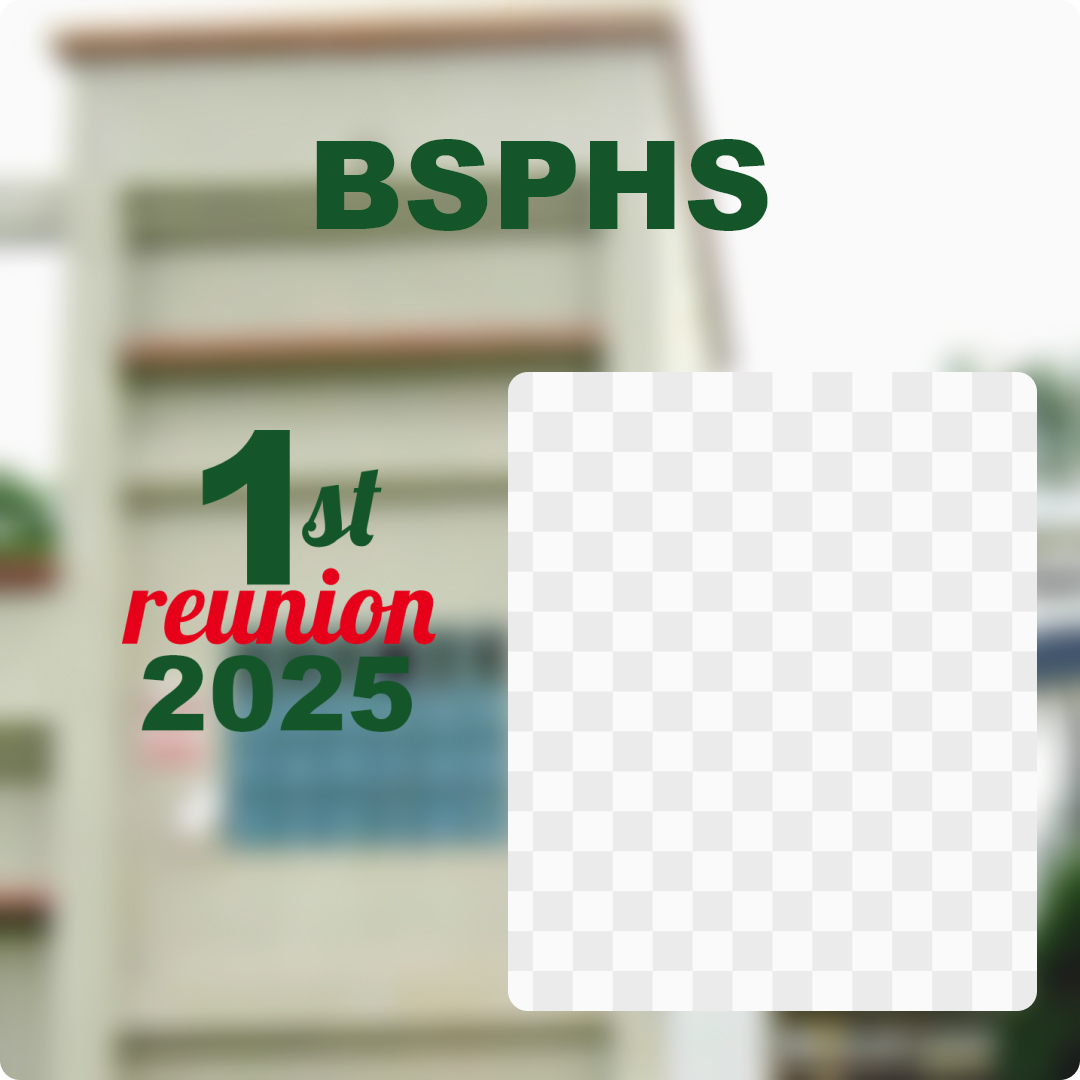
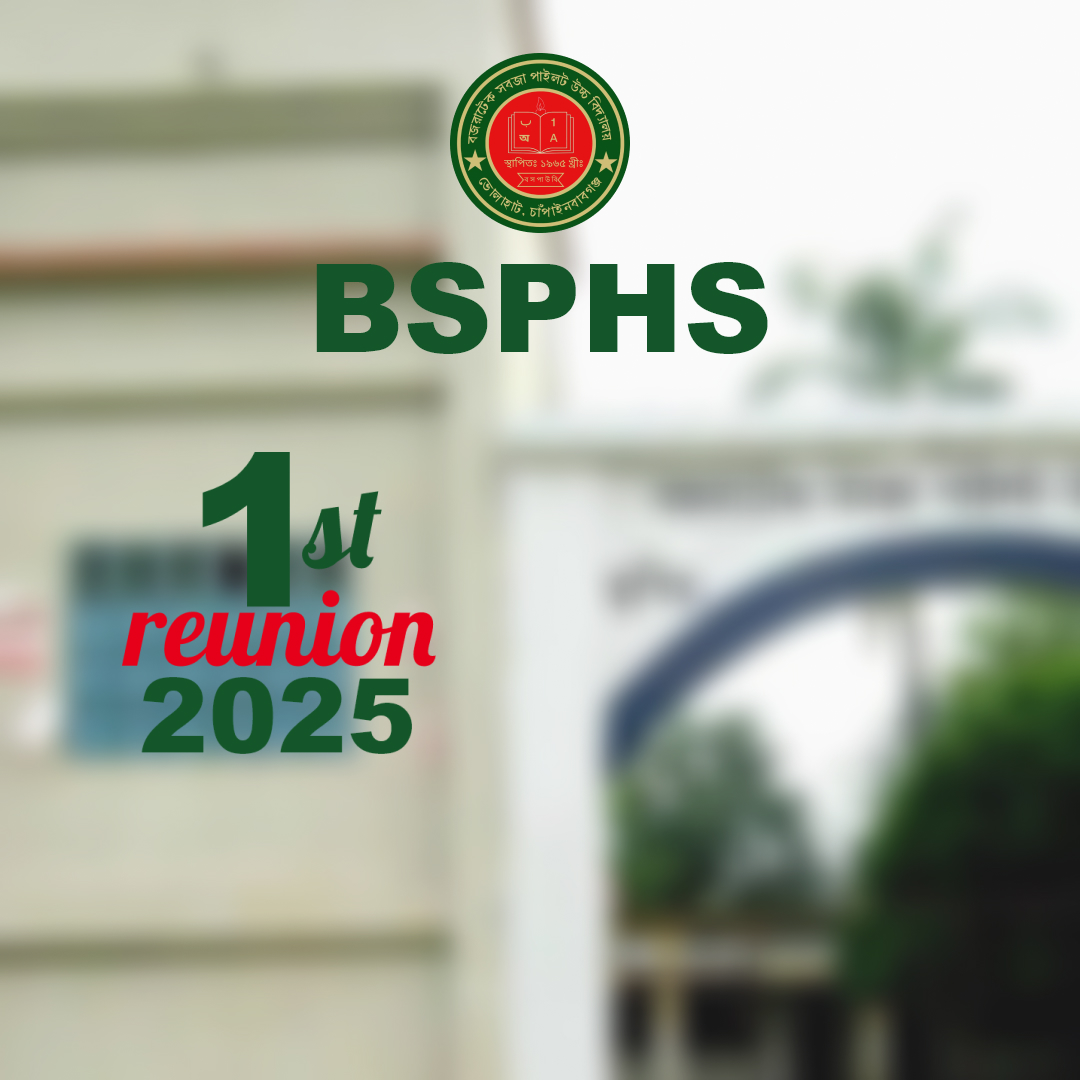
modified

diff --git a/index.html b/index.html
@@ -6,52 +6,66 @@
     <title>Dynamic Frame Update</title>
     <link href="https://cdn.jsdelivr.net/npm/bootstrap@5.0.2/dist/css/bootstrap.min.css" rel="stylesheet" integrity="sha384-EVSTQN3/azprG1Anm3QDgpJLIm9Nao0Yz1ztcQTwFspd3yD65VohhpuuCOmLASjC" crossorigin="anonymous">
     <link rel="stylesheet" href="css/style.css">
+    <link rel="stylesheet" href="css/responsive.css">
    
 </head>
 <body>
-  
-
-   <div class="container">
-        <div class="form-container">
-            <label class="form-label">Enter Your Image</label>
-            <input type="file" class="form-control" id="imageInput" accept="image/*">
-
-            <label class="form-label">Enter Your Name</label>
-            <input type="text" id="nameInput" class="form-control" placeholder="Enter Your Name">
-
-            <label class="form-label">Enter Your Batch Name</label>
-            <input type="text" id="batchInput" class="form-control" placeholder="Enter Your Batch Name">
-
-            <label class="form-label">Select Your Wish Text</label>
-            <select id="wishInput" class="form-select">
-                <option value="">Enter Your wish here</option>
-                <option value="Feeling Happy!">Feeling Happy!</option>
-                <option value="Feeling Excited!">Feeling Excited!</option>
-                <option value="Best Wishes!">Best Wishes!</option>
-                <option value="Proud Moment!">Proud Moment!</option>
-            </select>
-           
-            <button id="downloadBtn" class="btn btn-danger mt-4">Download Frame</button>
-        </div>
-        <div class="frame" id="preview">
-            <div class="ImgFrame">
-                <img id="previewImage" src="https://via.placeholder.com/100" alt="Your Image">
+    <div class="row">
+        <div class="col-md-12">
+            <div class="d-flex Haader justify-content-center align-items-center">
+                <img src="./images/logo.jpg" alt="" width="100" height="100" >
+                <h1> Bozratek Sobja Pilot High School</h1>
             </div>
-            <div class="name" id="previewName"></div>
-            <svg width="400" height="200" class="batch">
-            <defs>
-                <path id="curve" d="M100,150 A150,150 0 0,1 300,150" />
-            </defs>
-            <text width="500">
-                <textPath href="#curve" startOffset="50%" text-anchor="middle" id="previewBatch">
-                   
-                </textPath>
-            </text>
-             </svg>
-            <div class="wish" id="previewWish"></div>
         </div>
     </div>
-     <script src="https://cdnjs.cloudflare.com/ajax/libs/html2canvas/1.4.1/html2canvas.min.js"></script>
-   <script src="js/script.js"></script>
+    <div class="container mx-auto">
+        <div class="row mx-auto">
+            <div class="col-md-6">
+                <div class="form-container">
+                <label class="form-label">Enter Your Image</label>
+                <input type="file" class="form-control" id="imageInput" accept="image/*">
+
+                <label class="form-label">Enter Your Name</label>
+                <input type="text" id="nameInput" class="form-control" placeholder="Enter Your Name">
+
+                <label class="form-label">Enter Your Batch Name</label>
+                <input type="text" id="batchInput" class="form-control" placeholder="Enter Your Batch Name">
+
+                <label class="form-label">Select Your Wish Text</label>
+                <select id="wishInput" class="form-select">
+                    <option value="">Enter Your wish here</option>
+                    <option value="Feeling Happy!">Feeling Happy!</option>
+                    <option value="Feeling Excited!">Feeling Excited!</option>
+                    <option value="Best Wishes!">Best Wishes!</option>
+                    <option value="Proud Moment!">Proud Moment!</option>
+                </select>
+            
+                <button id="downloadBtn" class="btn btn-danger ">Download Frame</button>
+                </div>
+            </div>
+            <div class="col-md-6">
+                <div class="frame" id="preview">
+                    <div class="ImgFrame">
+                        <img id="previewImage" src="https://via.placeholder.com/100" alt="Your Image">
+                    </div>
+                    <div class="name" id="previewName"></div>
+                    <div class="batch" id="previewBatch"></div>
+                    <!-- <svg width="400" height="200" class="batch" id="previewBatch">
+                    <defs>
+                        <path id="curve" d="M100,150 A150,150 0 0,1 300,150" />
+                    </defs>
+                    <text width="500">
+                        <textPath href="#curve" startOffset="50%" text-anchor="middle" id="previewBatch">
+                    
+                        </textPath>
+                    </text>
+                    </svg> -->
+                    <div class="wish" id="previewWish"></div>
+                </div>
+            </div>
+        </div>   
+    </div>
+    <script src="https://cdnjs.cloudflare.com/ajax/libs/html2canvas/1.4.1/html2canvas.min.js"></script>
+    <script src="js/script.js"></script>
 </body>
 </html>

diff --git a/css/style.css b/css/style.css
@@ -1,10 +1,15 @@
 body {
   font-family: Arial, sans-serif;
-  display: flex;
-  justify-content: center;
-  align-items: center;
   height: 100vh;
-  background: #f5f5f5;
+}
+h1{
+  color: #14552A;
+  font-weight: bold;
+  text-align: center;
+}
+.Haader{
+  gap: 20px;
+  padding: 50px 0px;
 }
 .container {
   display: flex;
@@ -15,18 +20,19 @@ body {
     flex-direction: column;
     gap: 10px;
     background: #14552A;
-    padding: 50px 100px;
+    padding: 30px 40px;
     border-radius: 20px;
+    width: 380px;
+    height: 450px;
 }
 .frame {
-  width: 600px;
-  height: 600px;
+  width: 380px;
+  height: 450px;
   border-radius: 20px;
   box-shadow: 0 0 10px rgba(0, 0, 0, 0.1);
   text-align: center;
-  padding: 20px;
   position: relative;
-  background-image: url("../images/framee.jpg");
+  background-image: url("../images/framei.jpg");
   background-position: center;
   background-size: cover;
 }
@@ -40,25 +46,25 @@ label{
     border-radius: 20px;
 }
 .ImgFrame {
-    width: 280px;
-    height: 320px;
+    width: 180px;
+    height: 220px;
     background-color: #ddd;
     border-radius: 20px;
     position: absolute;
-    bottom: 50px;
-    right: 35px;
-    border: 3px dashed #E40019;
+    bottom: 40px;
+    right: 25px;
+    border: 2px dashed #E40019;
 }
-
 .frame::after {
     content: "";
-    background-image: url("../images/circlee.png");
+    background-image: url("../images/circle.png");
     background-repeat: no-repeat;
     position: absolute;
-    top: 448px;
-    left: 327px;
+    top: 350px;
+    left: 244px;
     width: 100%;
     height: 100%;
+    /* z-index: -1; */
 }
 .name,
 .batch,
@@ -68,20 +74,33 @@ label{
   font-weight: bold;
 }
 .name {
-    bottom: 85px;
-    left: 80px;
-    font-size: 26px;
-    color: #14552A;
+    bottom: 90px;
+    left: 30px;
+    font-size: 24px;
+    font-weight: 800;
 }
 .batch {
-    bottom: 33px;
-    right: -95px;
+    position: absolute;
+    bottom: -98%;
+    left: 89%;
+    transform: translateX(-50%);
+    display: flex;
+    justify-content: center;
+    align-items: center;
+    position: relative;
+    /* border-radius: 50%; */
     z-index: 1;
 }
+.batch span {
+    position: absolute;
+    
+    font-size: 18px;
+    font-weight: bold;
+}
 .wish {
-    bottom: 50px;
+    bottom: 60px;
     color: #E40019;
-    font-size: 20px;
-    left: 80px;
+    font-size: 18px;
+    left: 30px;
     font-weight: bold;
 }

diff --git a/js/script.js b/js/script.js
@@ -16,8 +16,23 @@ document.getElementById("nameInput").addEventListener("input", function () {
 });
 
 document.getElementById("batchInput").addEventListener("input", function () {
-  document.getElementById("previewBatch").textContent = "Batch: " + this.value;
+  const text = "Batch: " + this.value;
+  const batchContainer = document.getElementById("previewBatch");
+  batchContainer.innerHTML = "";
+
+  const radius = 75; // control the curve
+  const degIncrement = 120 / text.length;
+
+  text.split("").forEach((char, i) => {
+    const span = document.createElement("span");
+    span.textContent = char;
+    span.style.transform = `rotate(${
+      i * degIncrement - 85
+    }deg) translateY(-${radius}px)`;
+    batchContainer.appendChild(span);
+  });
 });
+
 
 document.getElementById("wishInput").addEventListener("input", function () {
   document.getElementById("previewWish").textContent = this.value;

diff --git a/css/responsive.css b/css/responsive.css
@@ -1,0 +1,24 @@
+@media (max-width:576px){
+    .frame {
+    width: 400px;
+    height: 450px;
+    border-radius: 20px;
+    box-shadow: 0 0 10px rgba(0, 0, 0, 0.1);
+    text-align: center;
+    position: relative;
+    background-image: url("../images/framei.jpg");
+    background-position: center;
+    background-size: cover;
+    margin-top: 60px;
+    }
+    .frame::after { 
+    top: 350px;
+    left: 264px;
+    }
+    .Haader{
+        flex-wrap: wrap;
+        gap: 0px;
+        padding: 20px 15px;
+        
+    }
+}
